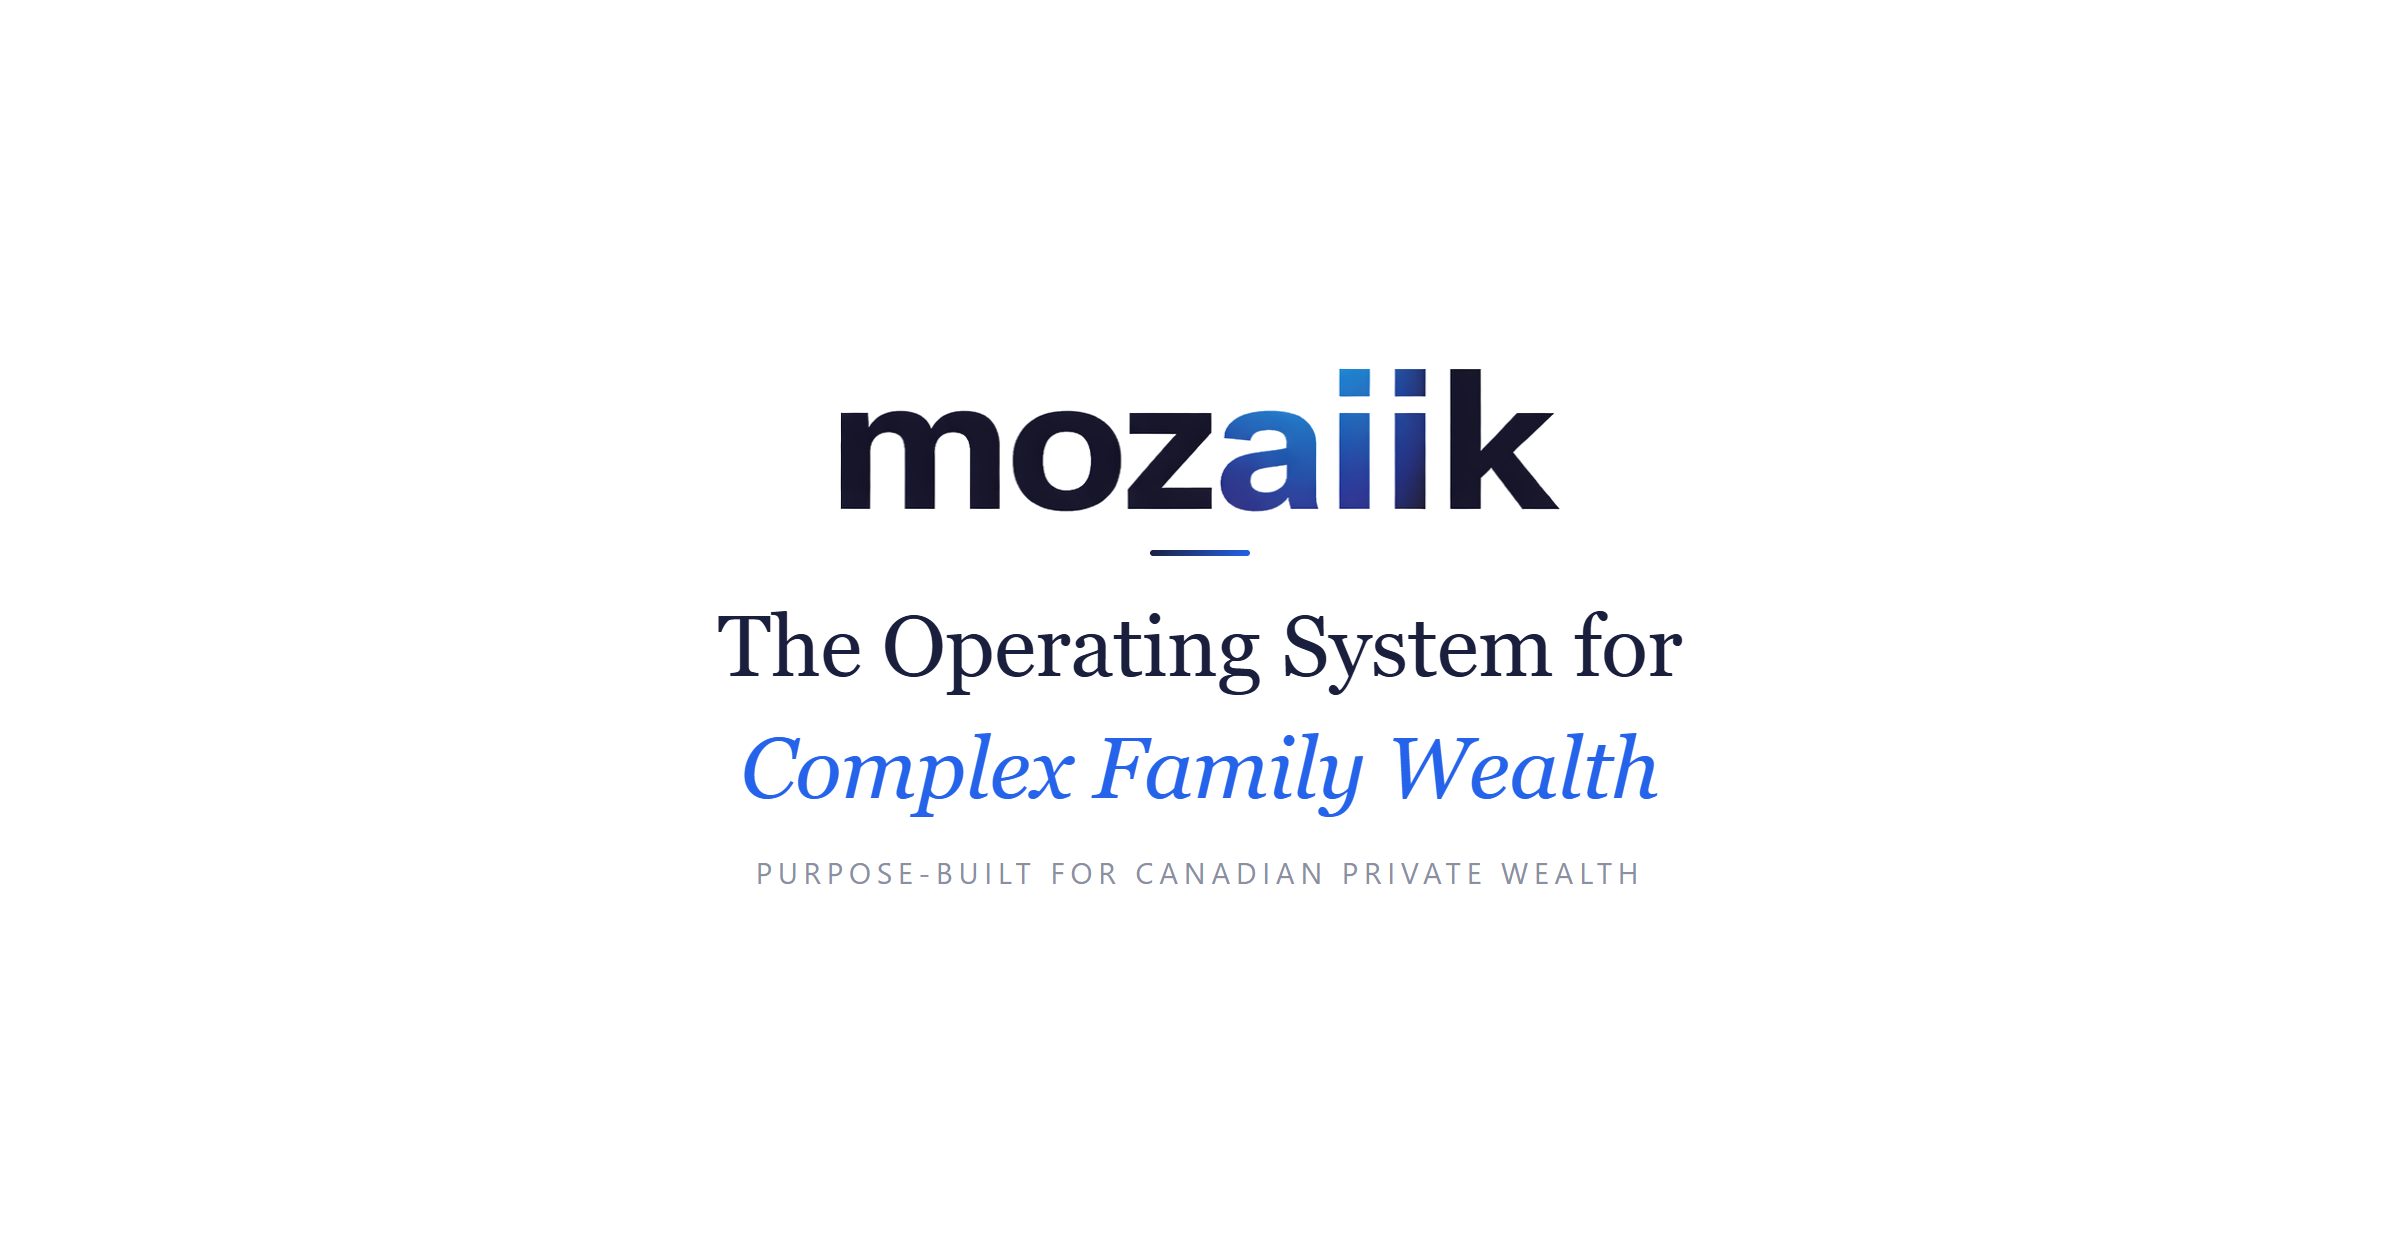
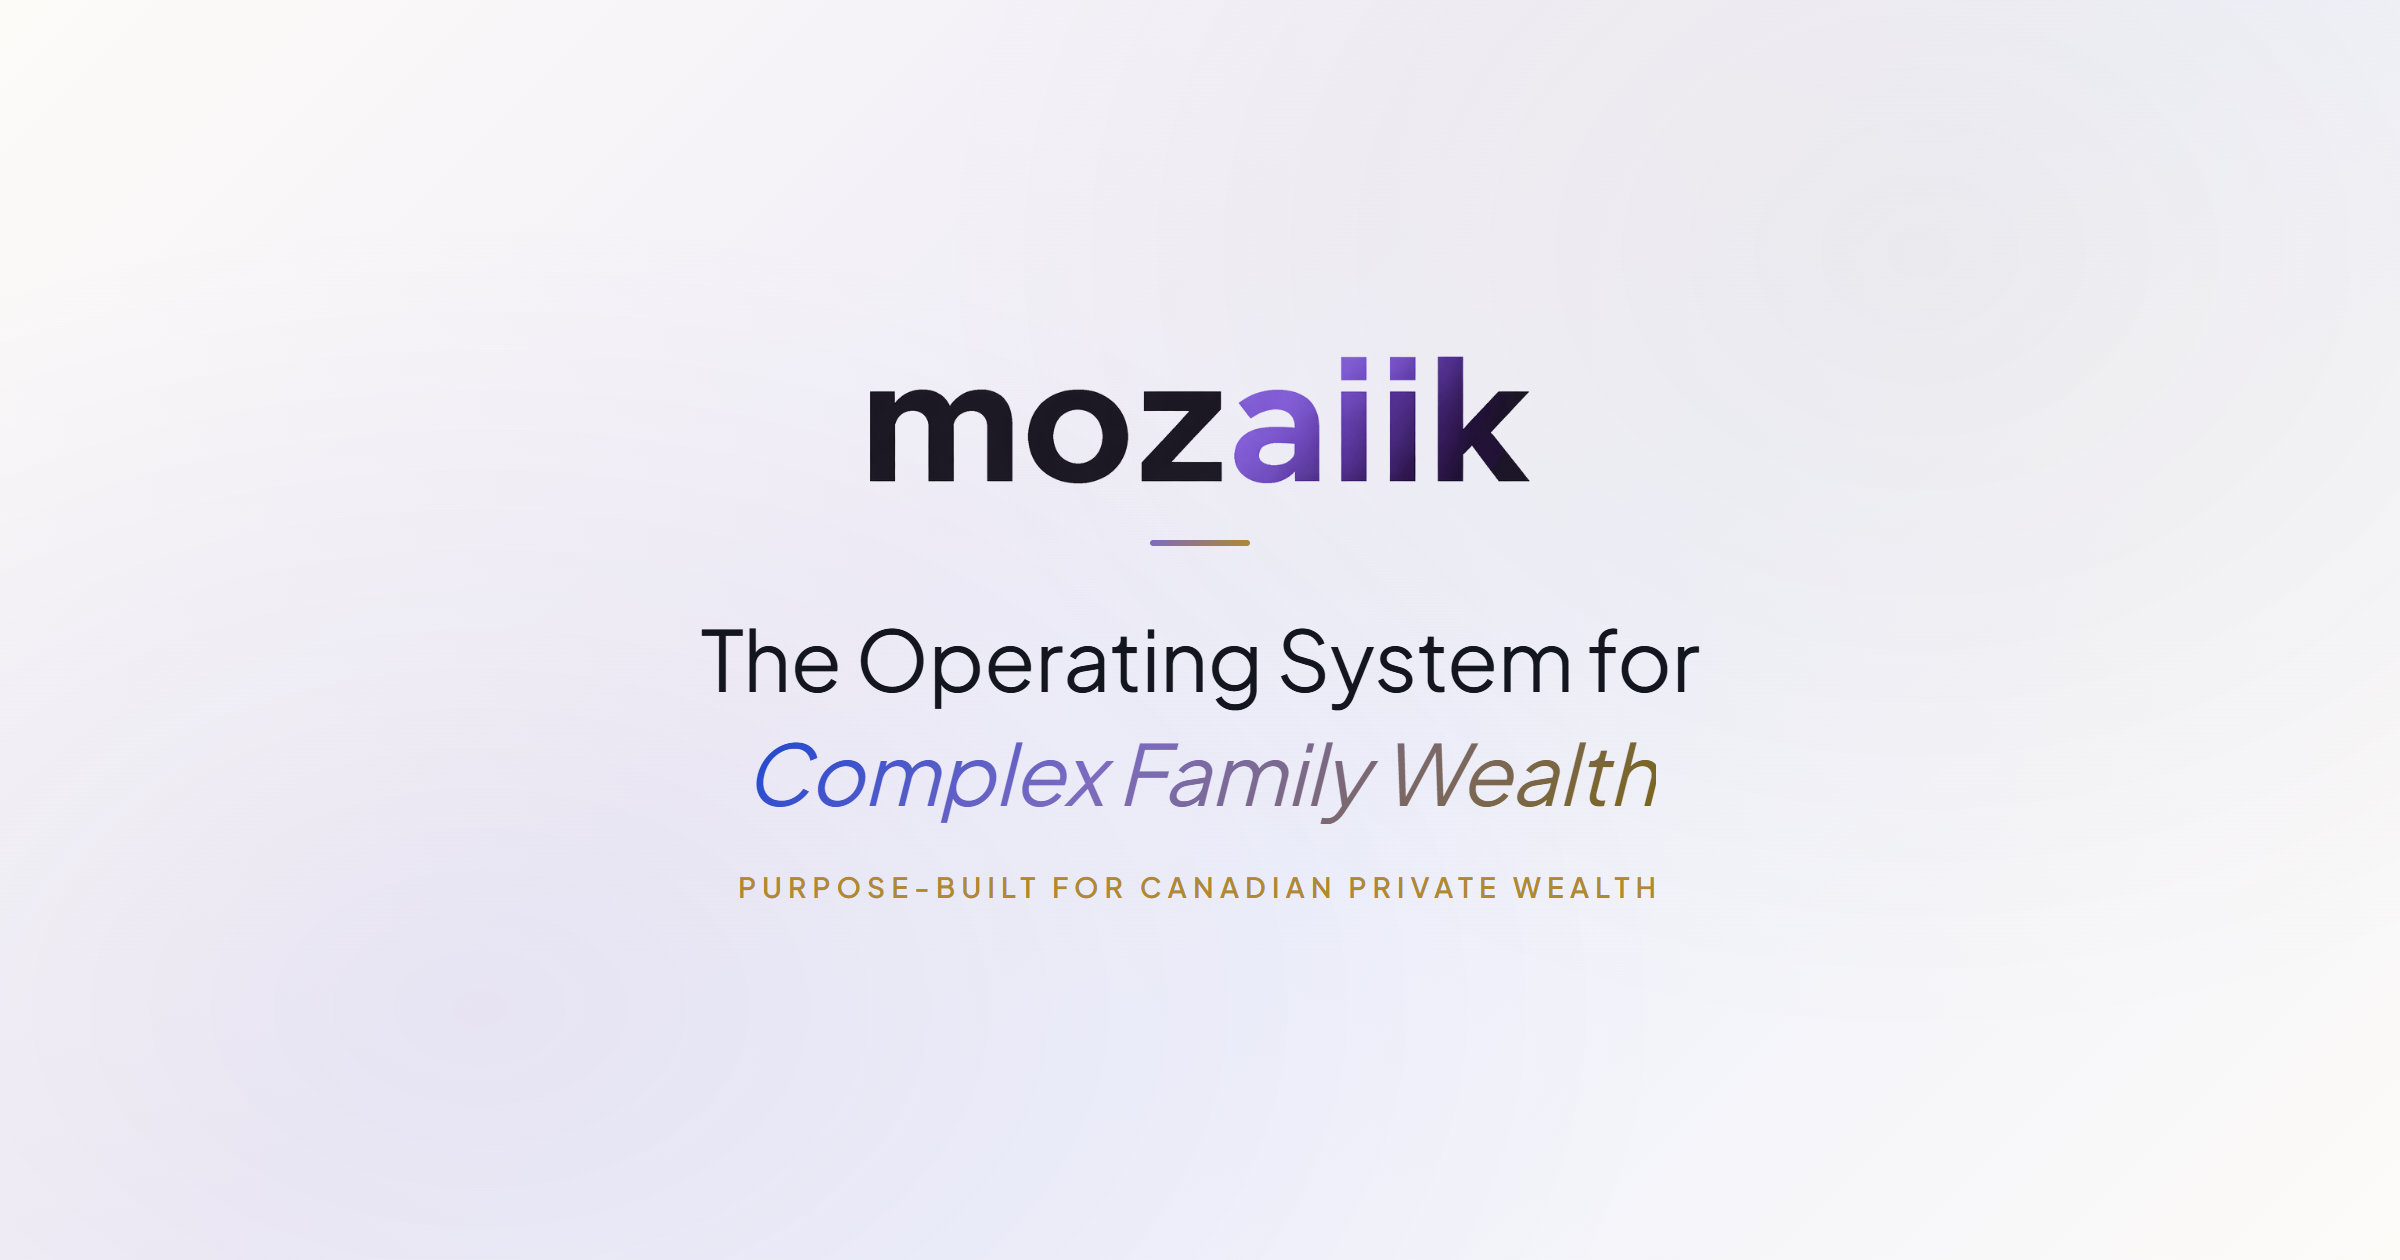
Update OG image and template to match violet/gold rebrand
- New logo image, violet→gold gradient on headline, gold subtitle
- Subtle violet/gold background glow matching site theme
- Rendered at 2x for crisp social previews

Changed region(s): [[0.0938, 0.4952, 0.7188, 1.0], [0.3438, 0.2786, 0.6562, 0.4643]]

diff --git a/og-template.html b/og-template.html
@@ -1,0 +1,80 @@
+<!DOCTYPE html>
+<html lang="en">
+<head>
+<meta charset="UTF-8">
+<title>OG Image Template — 1200x630</title>
+<link href="https://fonts.googleapis.com/css2?family=Plus+Jakarta+Sans:wght@400;600;800&display=swap" rel="stylesheet">
+<style>
+* { margin: 0; padding: 0; box-sizing: border-box; }
+html, body {
+  width: 1200px;
+  height: 630px;
+  background: linear-gradient(135deg, #fdfbf8 0%, #f0eef7 40%, #eef0fb 60%, #fdfbf8 100%);
+  display: flex;
+  flex-direction: column;
+  justify-content: center;
+  align-items: center;
+  font-family: 'Plus Jakarta Sans', -apple-system, BlinkMacSystemFont, sans-serif;
+  overflow: hidden;
+  position: relative;
+}
+body::before {
+  content: '';
+  position: absolute;
+  inset: 0;
+  background: radial-gradient(ellipse 600px 400px at 20% 80%, rgba(124,107,191,.08), transparent),
+              radial-gradient(ellipse 500px 400px at 80% 20%, rgba(176,137,48,.06), transparent);
+  pointer-events: none;
+}
+.logo {
+  height: 64px;
+  width: auto;
+  margin-bottom: 28px;
+  position: relative;
+  z-index: 1;
+}
+.divider {
+  width: 50px;
+  height: 3px;
+  background: linear-gradient(135deg, #7c6bbf, #B08930);
+  border-radius: 2px;
+  margin-bottom: 28px;
+  position: relative;
+  z-index: 1;
+}
+.tagline {
+  font-size: 42px;
+  font-weight: 400;
+  color: #13151f;
+  text-align: center;
+  line-height: 1.35;
+  letter-spacing: -0.3px;
+  position: relative;
+  z-index: 1;
+}
+.tagline em {
+  font-style: italic;
+  background: linear-gradient(135deg, #1a45d4 0%, #7c6bbf 40%, #7A6518 100%);
+  -webkit-background-clip: text;
+  -webkit-text-fill-color: transparent;
+  background-clip: text;
+}
+.subtitle {
+  margin-top: 20px;
+  font-size: 14px;
+  font-weight: 600;
+  letter-spacing: 3px;
+  text-transform: uppercase;
+  color: #B08930;
+  position: relative;
+  z-index: 1;
+}
+</style>
+</head>
+<body>
+  <img src="images/logo-nav.png" alt="Mozaiik" class="logo">
+  <div class="divider"></div>
+  <div class="tagline">The Operating System for<br><em>Complex Family Wealth</em></div>
+  <div class="subtitle">Purpose-Built for Canadian Private Wealth</div>
+</body>
+</html>
